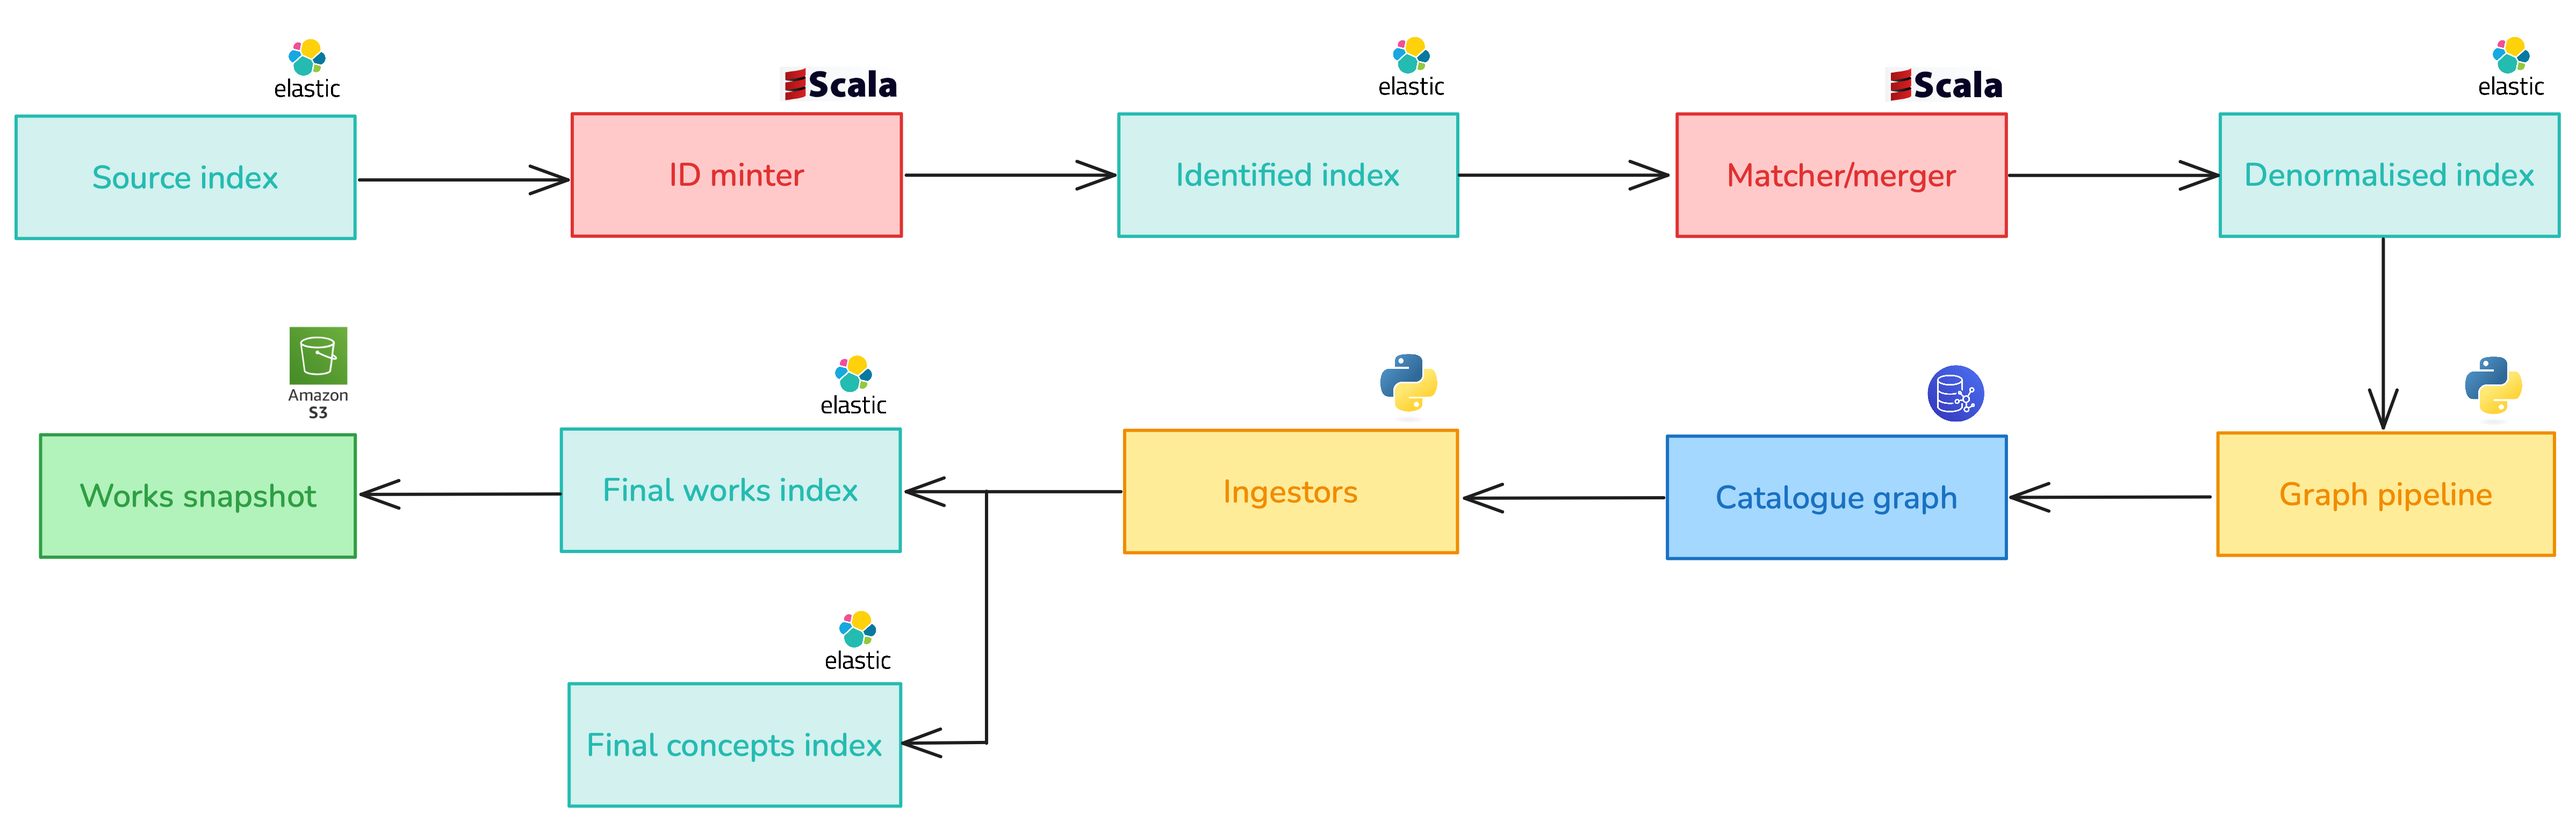
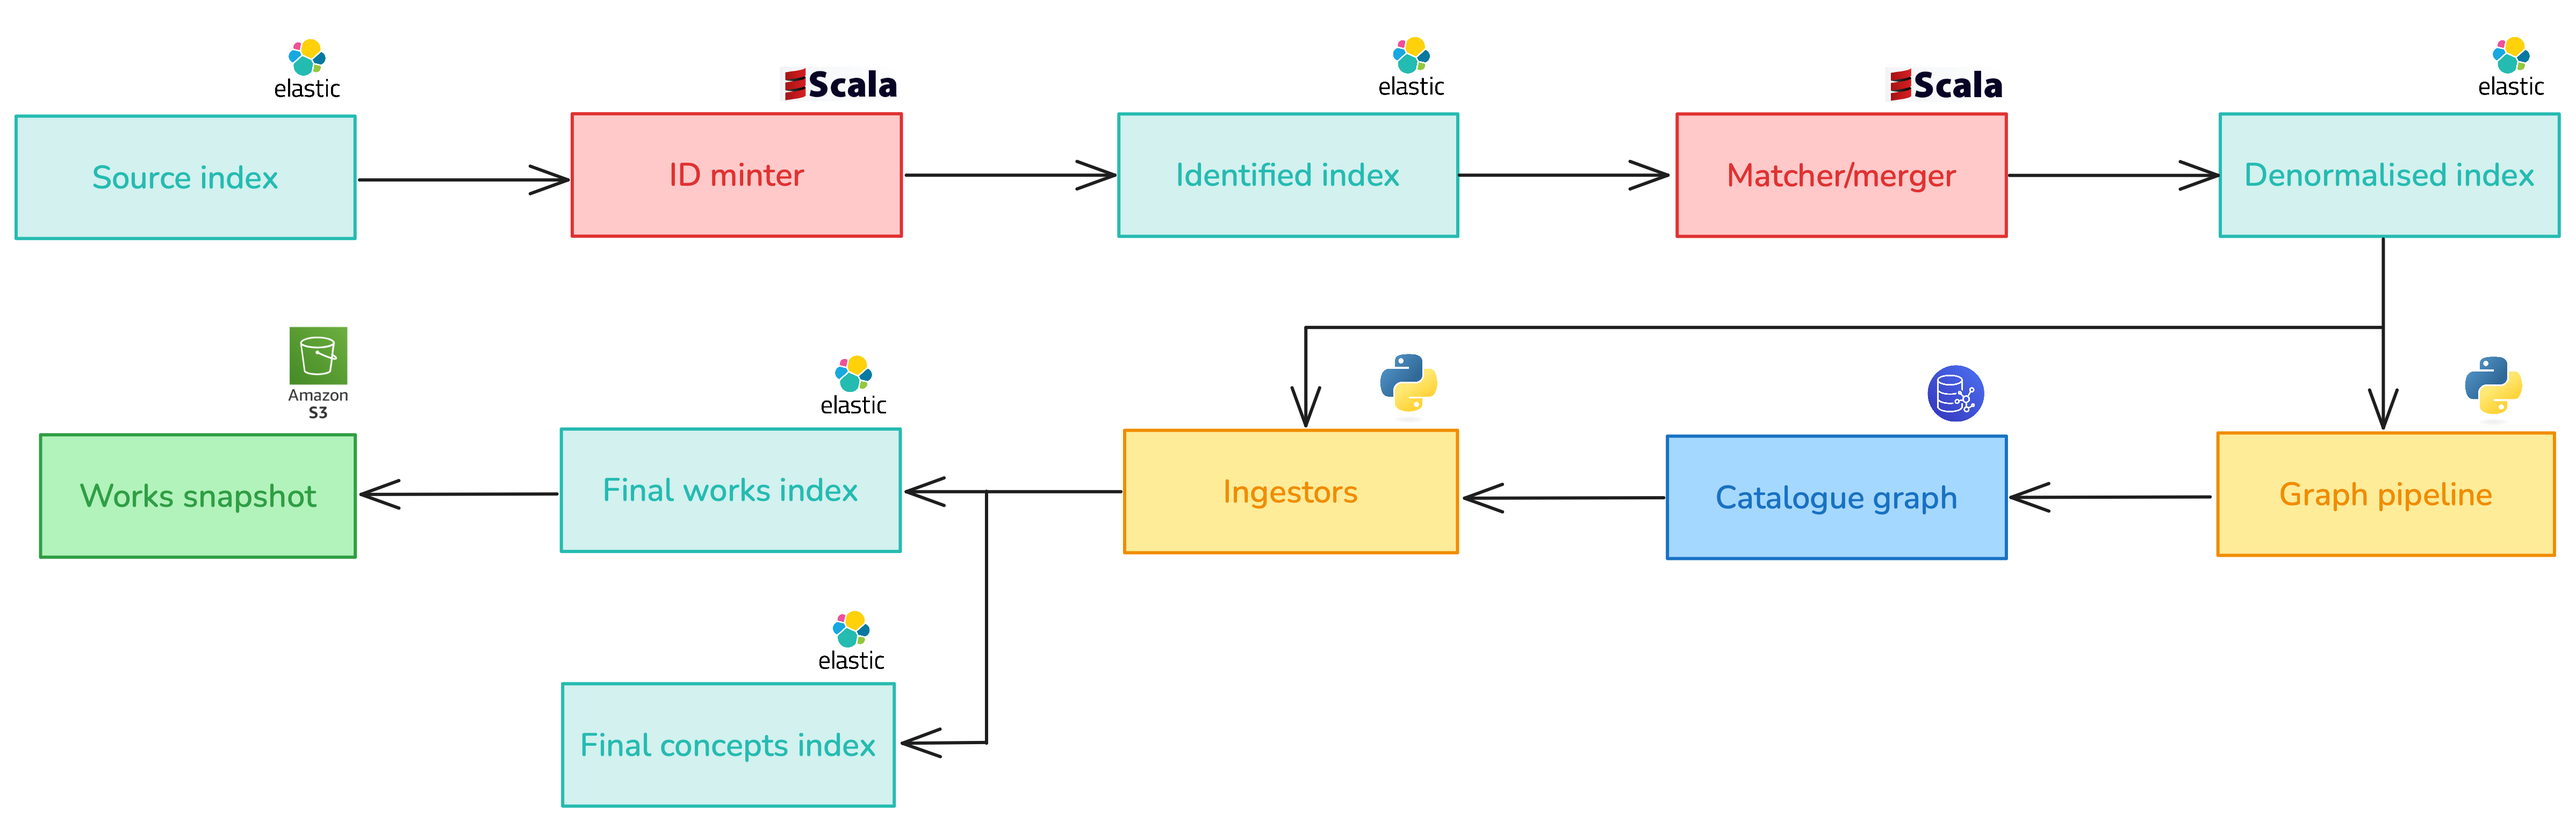
Change work storage approach

diff --git a/rfcs/076-catalogue-api-knowledge-graph/README.md b/rfcs/076-catalogue-api-knowledge-graph/README.md
@@ -158,28 +158,30 @@ processed entities will almost always be small.
 
 While the catalogue graph already stores works, each node includes only the information necessary for populating the
 concepts index. To populate the works index and replace the relation embedder with graph relationships, the structure of
-the graph will need to be modified. This RFC proposes the following changes:
+the graph will need to be modified. This RFC proposes that source identifiers (e.g. Sierra identifiers) will be
+extracted from works and stored as separate nodes. Parent/child relationships between identifiers and associations
+between works and identifiers will be captured as edges (see Figure 3). This is necessary to replicate the functionality
+of the relation embedder.
 
-* The graph will store _all_ data about each work, becoming a single source of truth for all downstream services. This
-  will enable the works ingestor to extract all required data from the graph, as opposed to piecing together data from
-  multiple sources.
-* Source identifiers (e.g. Sierra identifiers) will be stored as separate nodes. Parent/child relationships between
-  identifiers and associations between works and identifiers will be captured as edges (see Figure 3). This is necessary
-  to replicate the functionality of the relation embedder.
-* All other work data will be stored as properties of work nodes. Nested properties will be stored in stringified JSON
-  format.
+The catalogue graph will not store all data about each work, only capturing fields necessary for running graph
+queries. All other data will continue to be stored in the denormalised Elasticsearch index.
 
 <img src="graph-model.png" width="600" alt="Graph model" /> 
 
 *Figure 3: Hierarchical relationships between works will be captured via dedicated _Identifier_ nodes.*
 
-### Why not break out all nested fields into separate nodes?
+### How will final work documents be constructed?
 
-Neptune does not support storing nested fields as properties, which means we only have two options when it comes to
-storing such fields — we can either store them as stringified JSON properties, or we can extract them into separate
-nodes. While the latter option allows for more powerful queries, it comes with performance costs and adds complexity
-to the graph pipeline. Therefore, this RFC proposes that all nested fields are stored as stringified properties until
-being able to query on them becomes a requirement.
+At the moment, final works index documents are constructed by the Scala ingestor service, utilising the denormalised
+index its only data source. The new Python-based ingestor will need to utilise both the catalogue graph (extracting
+concepts and work hierarchies) and the denormalised index (extracting remaining work data).
+
+When creating final documents during a full reindex, the works ingestor can either utilise the graph as its 'primary'
+data source (mirroring the existing concepts ingestor) and make secondary queries against the denormalised index, or
+the other way around (using the denormalised index as a primary source and supplementing it with catalogue graph data).
+Some preliminary testing has shown that the performance of both approaches is acceptable. However, this RFC suggests 
+implementing the latter as it is simpler (avoiding the need to insert deleted and redirected works into
+the catalogue graph).
 
 ### How do these changes affect performance?
 
@@ -211,7 +213,7 @@ on performance.
 The modifications suggested in this RFC can be implemented in three steps:
 
 1. Modify the graph pipeline to start extracting data from the denormalised index and to populate the graph with
-   complete information about each work (including dedicated _Identifier_ nodes).
+   dedicated _Identifier_ nodes to replace the relation embedder.
 2. Rewrite the works ingestor in Python, following the same architecture as the existing concepts ingestor.
 3. Add incremental mode support to the graph pipeline and to the works and concepts ingestors.
 
